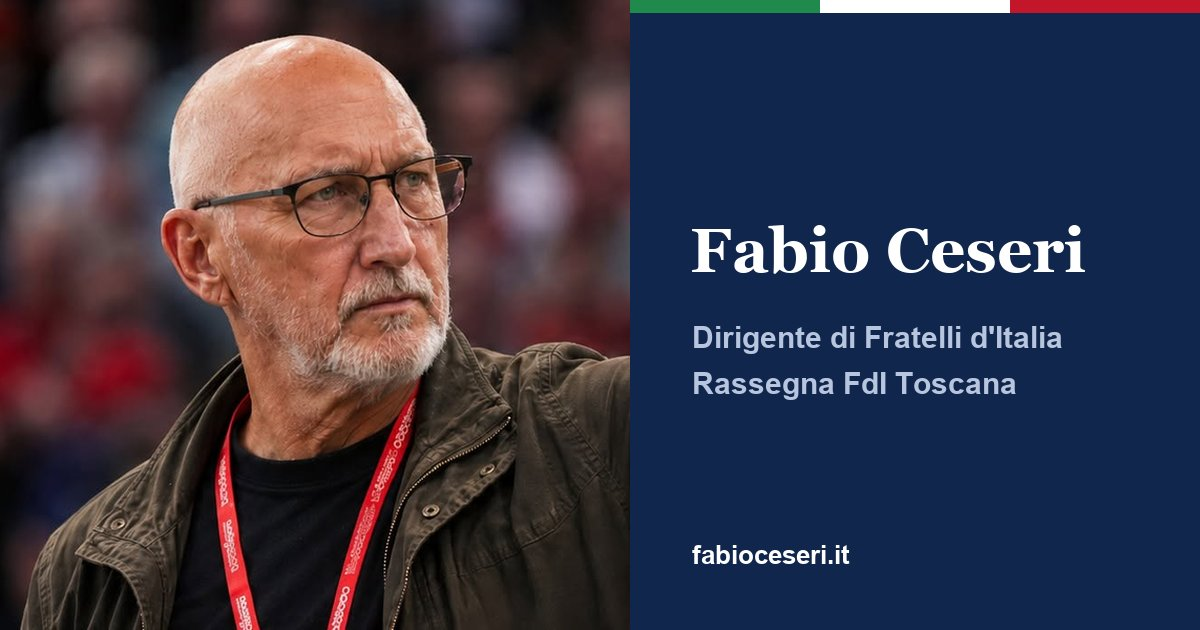
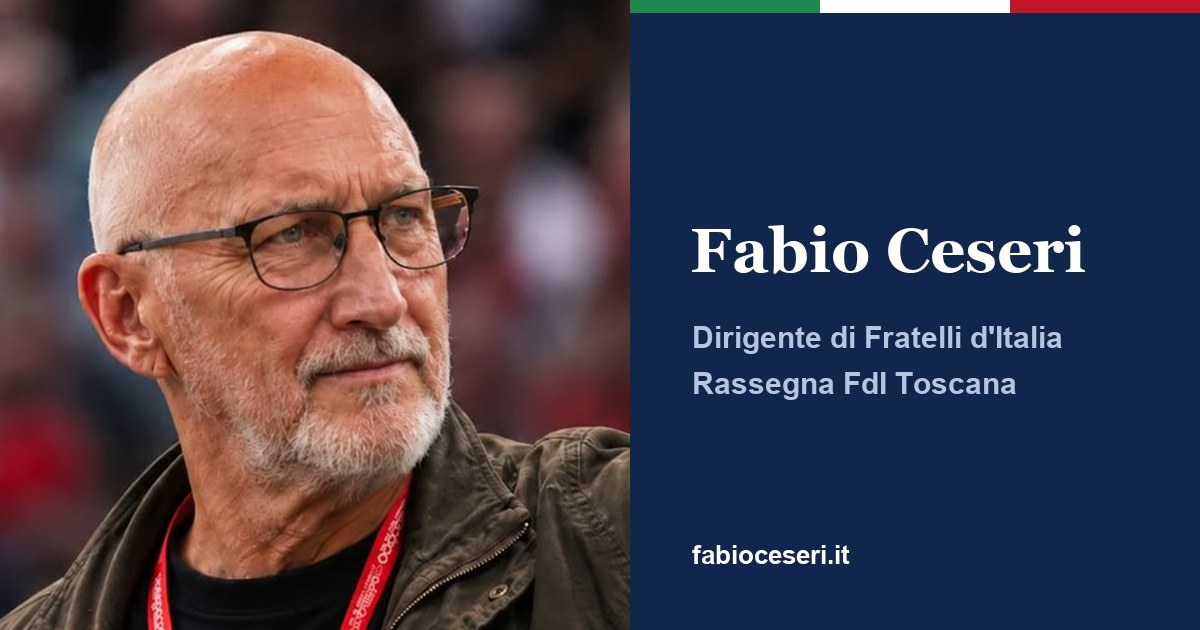
Aggiornamento 20/10/2026 11:32

diff --git a/vite-ritrovate/index.html b/vite-ritrovate/index.html
@@ -1,0 +1,280 @@
+<!doctype html>
+<html lang="it">
+<head>
+<meta charset="utf-8">
+<meta name="viewport" content="width=device-width, initial-scale=1">
+<title>Si dice sia il caso | Fabio Ceseri | Vite ritrovate</title>
+<meta name="description" content="Si dice sia il caso, di Fabio Ceseri: la storia vera di un amico, tra radici spezzate, dipendenze e la possibilità di ricominciare. Primo volume di Vite ritrovate. eBook Kindle su Amazon.">
+<meta name="theme-color" content="#0a1322">
+<meta property="og:type" content="book">
+<meta property="og:title" content="Si dice sia il caso, di Fabio Ceseri">
+<meta property="og:description" content="Una storia vera. La possibilità di ricominciare. Primo volume di Vite ritrovate.">
+<link rel="canonical" href="https://fabioceseri.it/vite-ritrovate/">
+<meta property="og:url" content="https://fabioceseri.it/vite-ritrovate/">
+<meta property="og:image" content="https://fabioceseri.it/vite-ritrovate/img/anteprima.jpg">
+<meta property="og:image:width" content="1200">
+<meta property="og:image:height" content="630">
+<meta property="og:locale" content="it_IT">
+<meta name="twitter:card" content="summary_large_image">
+<link rel="icon" href="img/copertina.jpg">
+<script type="application/ld+json">
+{
+  "@context": "https://schema.org",
+  "@type": "Book",
+  "name": "Si dice sia il caso",
+  "alternativeHeadline": "Non è mai davvero il caso",
+  "author": {"@type": "Person", "name": "Fabio Ceseri", "url": "https://fabioceseri.it/"},
+  "inLanguage": "it",
+  "bookFormat": "https://schema.org/EBook",
+  "isPartOf": {"@type": "BookSeries", "name": "Vite ritrovate"},
+  "image": "https://fabioceseri.it/vite-ritrovate/img/copertina.jpg",
+  "url": "https://fabioceseri.it/vite-ritrovate/"
+}
+</script>
+<style>
+:root{
+  --notte:#0a1322; --notte-2:#101d33; --notte-3:#172a47;
+  --lampione:#e9b45c; --lampione-tenue:rgba(233,180,92,.16);
+  --carta:#f3ead8; --carta-2:#cfc6b4; --rossa:#b4432f;
+  --serif:"Iowan Old Style","Palatino Linotype",Palatino,"Book Antiqua",Georgia,serif;
+  --sans:-apple-system,BlinkMacSystemFont,"Segoe UI",Roboto,"Helvetica Neue",Arial,sans-serif;
+}
+*{box-sizing:border-box}
+html{scroll-behavior:smooth}
+body{margin:0;background:var(--notte);color:var(--carta);font-family:var(--serif);font-size:19px;line-height:1.65;-webkit-font-smoothing:antialiased}
+a{color:var(--lampione)}
+img{max-width:100%;height:auto;display:block}
+.wrap{max-width:1080px;margin:0 auto;padding:0 24px}
+
+/* menu */
+.nav{position:absolute;top:0;left:0;right:0;z-index:5}
+.nav .wrap{display:flex;justify-content:space-between;align-items:center;padding-top:22px}
+.marchio{font-family:var(--sans);font-size:12px;letter-spacing:.32em;text-transform:uppercase;color:var(--carta-2);text-decoration:none}
+.nav ul{list-style:none;display:flex;gap:26px;margin:0;padding:0;font-family:var(--sans);font-size:14px}
+.nav ul a{color:var(--carta-2);text-decoration:none}
+.nav ul a:hover{color:var(--carta)}
+
+/* apertura */
+.hero{position:relative;min-height:100vh;display:flex;align-items:center;overflow:hidden;
+  background:linear-gradient(180deg,rgba(10,19,34,.55),rgba(10,19,34,.35) 40%,var(--notte) 98%),url(img/sfondo.jpg) center/cover no-repeat}
+.pioggia{position:absolute;inset:-50% 0 0;pointer-events:none;opacity:.22;
+  background-image:repeating-linear-gradient(102deg,transparent 0 11px,rgba(220,232,255,.5) 11px 12px,transparent 12px 38px);
+  background-size:100% 240px;animation:cade 1.1s linear infinite;mask-image:linear-gradient(transparent,#000 30%,#000 70%,transparent)}
+@keyframes cade{to{transform:translateY(240px)}}
+@media (prefers-reduced-motion:reduce){.pioggia{animation:none}}
+.hero .wrap{position:relative;display:grid;grid-template-columns:minmax(0,5fr) minmax(0,6fr);gap:64px;align-items:center;padding-top:110px;padding-bottom:80px}
+.copertina{position:relative;justify-self:center;width:min(100%,360px)}
+.copertina::before{content:"";position:absolute;inset:18% -18% 0;background:radial-gradient(closest-side,rgba(233,180,92,.33),transparent);filter:blur(10px);z-index:-1}
+.copertina img{border-radius:3px;box-shadow:0 30px 60px rgba(0,0,0,.55),0 0 0 1px rgba(255,255,255,.06)}
+.collana{display:inline-block;font-family:var(--sans);font-size:12px;letter-spacing:.22em;text-transform:uppercase;color:var(--lampione);border:1px solid rgba(233,180,92,.4);border-radius:999px;padding:6px 14px;margin-bottom:22px}
+.autore{font-size:15px;letter-spacing:.42em;text-transform:uppercase;color:var(--carta-2);margin:0 0 10px}
+h1{font-size:clamp(52px,7.4vw,92px);line-height:1;font-weight:600;margin:0 0 14px;letter-spacing:-.01em;color:#f6eedd}
+.sottotitolo{font-style:italic;font-size:clamp(24px,2.8vw,32px);margin:0 0 26px;color:var(--carta)}
+.filo{width:90px;height:1px;background:var(--lampione);opacity:.8;margin:0 0 26px}
+.frase{font-size:21px;margin:0 0 34px;color:var(--carta)}
+.bottoni{display:flex;flex-wrap:wrap;gap:14px;align-items:center}
+.btn{font-family:var(--sans);font-size:16px;font-weight:600;text-decoration:none;border-radius:999px;padding:14px 24px;display:inline-flex;align-items:center;gap:10px;transition:transform .15s,background .15s}
+.btn:hover{transform:translateY(-1px)}
+.btn-oro{background:var(--lampione);color:#1a1206}
+.btn-oro:hover{background:#f2c372}
+.btn-vuoto{color:var(--carta);border:1px solid rgba(243,234,216,.35)}
+.btn-vuoto:hover{background:rgba(243,234,216,.08)}
+.nota{font-family:var(--sans);font-size:13px;color:var(--carta-2);margin:16px 0 0}
+
+/* sezioni */
+section{padding:96px 0}
+.etichetta{font-family:var(--sans);font-size:12px;letter-spacing:.28em;text-transform:uppercase;color:var(--lampione);margin:0 0 14px}
+h2{font-size:clamp(34px,4.2vw,48px);line-height:1.12;font-weight:600;margin:0 0 28px;color:#f6eedd}
+.testo{max-width:680px}
+.testo p{margin:0 0 1.1em}
+.citazione{font-size:clamp(26px,3.2vw,36px);line-height:1.35;font-style:italic;max-width:820px;margin:0 auto;text-align:center;color:#f6eedd}
+.citazione::before{content:"\201C";display:block;font-size:80px;line-height:.6;color:var(--lampione);margin-bottom:18px;font-style:normal}
+.firma{text-align:center;font-family:var(--sans);font-size:14px;letter-spacing:.2em;text-transform:uppercase;color:var(--carta-2);margin-top:26px}
+.fascia{background:linear-gradient(180deg,var(--notte),var(--notte-2))}
+.fascia-2{background:var(--notte-2)}
+.due{display:grid;grid-template-columns:minmax(0,1fr) minmax(0,1fr);gap:56px;align-items:start}
+.temi{list-style:none;margin:0;padding:0;display:grid;gap:14px}
+.temi li{background:var(--notte-3);border-left:3px solid var(--lampione);border-radius:4px;padding:16px 20px}
+.temi b{display:block;font-size:20px;color:#f6eedd}
+.temi span{font-family:var(--sans);font-size:15px;color:var(--carta-2)}
+
+/* progetto */
+.schede{display:grid;grid-template-columns:repeat(3,minmax(0,1fr));gap:22px;margin-top:44px}
+.scheda{background:rgba(255,255,255,.03);border:1px solid rgba(243,234,216,.1);border-radius:10px;padding:28px}
+.scheda .num{font-family:var(--sans);font-size:13px;color:var(--lampione);letter-spacing:.2em}
+.scheda h3{font-size:25px;margin:8px 0 10px;font-weight:600;color:#f6eedd}
+.scheda p{font-family:var(--sans);font-size:16px;line-height:1.6;color:var(--carta-2);margin:0}
+.storia{margin-top:56px;display:flex;flex-wrap:wrap;gap:24px 40px;align-items:center;justify-content:space-between;border-radius:12px;padding:36px 40px;
+  background:radial-gradient(120% 140% at 0% 0%,rgba(233,180,92,.18),transparent 60%),var(--notte-3)}
+.storia h3{font-size:28px;margin:0 0 6px;font-weight:600}
+.storia p{margin:0;font-family:var(--sans);font-size:16px;color:var(--carta-2);max-width:560px}
+
+/* aiuto */
+.aiuto{border:1px solid rgba(233,180,92,.35);border-radius:12px;padding:40px;background:rgba(233,180,92,.05)}
+.aiuto h2{font-size:clamp(28px,3.4vw,38px)}
+.numeri{display:grid;grid-template-columns:repeat(2,minmax(0,1fr));gap:18px;margin-top:8px}
+.numero{background:var(--notte);border-radius:8px;padding:20px 22px}
+.numero a{font-family:var(--sans);font-size:24px;font-weight:700;text-decoration:none;color:var(--lampione);white-space:nowrap}
+.numero b{display:block;font-size:19px;margin-bottom:4px}
+.numero span{display:block;font-family:var(--sans);font-size:14px;color:var(--carta-2);margin-top:6px}
+.piccolo{font-family:var(--sans);font-size:13px;color:var(--carta-2);margin:20px 0 0}
+
+/* autore */
+.autore-box{display:flex;gap:28px;align-items:center}
+.ritratto{flex:none;width:150px;height:150px;border-radius:50%;object-fit:cover;border:2px solid rgba(233,180,92,.6);box-shadow:0 0 0 6px rgba(233,180,92,.08),0 18px 40px rgba(0,0,0,.45)}
+
+footer{padding:40px 0 56px;border-top:1px solid rgba(243,234,216,.08);font-family:var(--sans);font-size:14px;color:var(--carta-2)}
+footer .wrap{display:flex;flex-wrap:wrap;gap:12px 28px;justify-content:space-between}
+footer a{color:var(--carta-2)}
+
+@media (max-width:860px){
+  body{font-size:18px}
+  .nav ul{display:none}
+  .hero .wrap{grid-template-columns:1fr;gap:40px;padding-top:84px;text-align:center}
+  .copertina{width:min(58%,220px)}
+  .filo{margin-left:auto;margin-right:auto}
+  .bottoni{justify-content:center}
+  .due,.schede,.numeri{grid-template-columns:1fr}
+  section{padding:72px 0}
+  .storia,.aiuto{padding:28px 22px}
+  .autore-box{flex-direction:column;text-align:center}
+}
+@media (max-width:480px){.wrap{padding:0 16px}.btn{width:100%;justify-content:center}}
+</style>
+</head>
+<body>
+
+<nav class="nav"><div class="wrap">
+  <a class="marchio" href="https://fabioceseri.it/">← Fabio Ceseri</a>
+  <ul>
+    <li><a href="#libro">Il libro</a></li>
+    <li><a href="#progetto">Il progetto</a></li>
+    <li><a href="#aiuto">Chiedere aiuto</a></li>
+    <li><a href="#scrivimi">Scrivimi</a></li>
+  </ul>
+</div></nav>
+
+<header class="hero">
+  <div class="pioggia" aria-hidden="true"></div>
+  <div class="wrap">
+    <div class="copertina"><img src="img/copertina.jpg" width="535" height="868" alt="Copertina di Si dice sia il caso: una cabina telefonica rossa illuminata sotto la pioggia, di notte"></div>
+    <div>
+      <span class="collana">Vite ritrovate · Volume 1</span>
+      <p class="autore">Fabio Ceseri</p>
+      <h1>Si dice sia il caso</h1>
+      <p class="sottotitolo">Non è mai davvero il caso</p>
+      <div class="filo"></div>
+      <p class="frase">Una storia vera.<br>La possibilità di ricominciare.</p>
+      <div class="bottoni">
+        <!-- LINK AMAZON: sostituire con il link diretto al libro appena Fabio lo manda -->
+        <a class="btn btn-oro" href="https://www.amazon.it/s?k=Si+dice+sia+il+caso+Fabio+Ceseri&amp;i=digital-text" target="_blank" rel="noopener">Leggilo su Amazon</a>
+        <a class="btn btn-vuoto" href="#progetto">Il progetto</a>
+      </div>
+      <p class="nota">eBook Kindle · disponibile anche con Kindle Unlimited</p>
+    </div>
+  </div>
+</header>
+
+<section class="fascia">
+  <div class="wrap">
+    <p class="citazione">Ci sono persone che continuano a far parte della nostra vita anche quando non ci sono più. Scrivere di loro è un modo per custodire ciò che ci hanno lasciato e condividerlo con qualcuno.</p>
+    <p class="firma">Fabio Ceseri</p>
+  </div>
+</section>
+
+<section id="libro" class="fascia-2">
+  <div class="wrap due">
+    <div class="testo">
+      <p class="etichetta">Il libro</p>
+      <h2>La storia vera di un amico</h2>
+      <p><em>Si dice sia il caso</em> nasce dalla storia vera di un amico che ho conosciuto e amato. Racconta radici spezzate, dipendenze difficili da affrontare e la possibilità di ritrovare una direzione quando sembra di averla perduta.</p>
+      <p>Ho voluto dare spazio alla sua testimonianza, alla fatica e alla speranza di una rinascita. È da questa esperienza che prende forma il primo volume di <em>Vite ritrovate</em>.</p>
+      <p>Il libro è disponibile su Amazon in formato eBook Kindle, anche per gli abbonati a Kindle Unlimited.</p>
+    </div>
+    <ul class="temi" aria-label="I temi del libro">
+      <li><b>Radici spezzate</b><span>Una famiglia divisa, un'infanzia che lascia il segno.</span></li>
+      <li><b>Dipendenze</b><span>La fatica di guardarle in faccia, e di non restarne prigionieri.</span></li>
+      <li><b>Una direzione ritrovata</b><span>Quando sembra tutto perduto, la possibilità di ricominciare.</span></li>
+    </ul>
+  </div>
+</section>
+
+<section class="fascia">
+  <div class="wrap">
+    <p class="etichetta" style="text-align:center">Non è mai davvero il caso</p>
+    <p class="citazione">C'è qualcuno al di sopra di noi che ci ama e ha dato la vita per noi.</p>
+    <p class="firma">Fabio Ceseri</p>
+  </div>
+</section>
+
+<section id="progetto" class="fascia-2">
+  <div class="wrap">
+    <div class="testo">
+      <p class="etichetta">Il progetto</p>
+      <h2>Vite ritrovate</h2>
+      <p>Una collana di storie vere: persone che sono cadute e si sono rialzate. Chi sta attraversando lo stesso buio spesso pensa di essere solo. Leggere che qualcuno ce l'ha fatta può essere il primo passo per chiedere aiuto.</p>
+    </div>
+    <div class="schede">
+      <div class="scheda"><span class="num">01</span><h3>Custodire</h3><p>Raccogliere le storie di chi ha ritrovato la propria strada, con rispetto e solo con il pieno consenso di chi le ha vissute.</p></div>
+      <div class="scheda"><span class="num">02</span><h3>Accompagnare</h3><p>Ogni storia porta con sé un'indicazione concreta: dove chiedere aiuto, subito e gratuitamente.</p></div>
+      <div class="scheda"><span class="num">03</span><h3>Incontrarsi</h3><p>Presentazioni in biblioteche, parrocchie e scuole, insieme a chi ogni giorno aiuta le persone a uscire dalle dipendenze.</p></div>
+    </div>
+    <div class="storia">
+      <div>
+        <h3>Hai una storia da raccontare?</h3>
+        <p>La tua, o quella di una persona cara. Scrivimi: la leggerò con attenzione e in riservatezza. Nessuna storia sarà pubblicata senza il tuo consenso.</p>
+      </div>
+      <a class="btn btn-oro" href="mailto:ceseri@gmail.com?subject=Vite%20ritrovate%3A%20una%20storia">Racconta la tua storia</a>
+    </div>
+  </div>
+</section>
+
+<section id="aiuto">
+  <div class="wrap">
+    <div class="aiuto">
+      <p class="etichetta">Se stai attraversando un momento difficile</p>
+      <h2>Non sei solo. Chiedere aiuto si può.</h2>
+      <div class="numeri">
+        <div class="numero"><b>Emergenza</b><a href="tel:112">112</a><span>Numero unico di emergenza, sempre attivo.</span></div>
+        <div class="numero"><b>Telefono Amico Italia</b><a href="tel:+390223272327">02 2327 2327</a><span>Ascolto per chi si sente solo o in difficoltà. Anche su WhatsApp.</span></div>
+        <div class="numero"><b>Telefono Verde gioco d'azzardo</b><a href="tel:800558822">800 558 822</a><span>Istituto Superiore di Sanità. Gratuito e anonimo, dal lunedì al venerdì.</span></div>
+        <div class="numero"><b>Servizi per le Dipendenze</b><span style="margin-top:0">Ogni ASL ha un Ser.D: si accede direttamente, gratis, senza impegnativa del medico. Chiedi alla tua ASL o al tuo medico di famiglia.</span></div>
+      </div>
+      <p class="piccolo">Gli orari possono cambiare: controllali sui siti ufficiali dei servizi.</p>
+    </div>
+  </div>
+</section>
+
+<section id="scrivimi" class="fascia-2">
+  <div class="wrap">
+    <div class="testo" style="max-width:760px">
+      <p class="etichetta">Dopo la lettura</p>
+      <h2>Che cosa ti ha lasciato?</h2>
+      <p>Se vorrete leggerlo, mi farà piacere sapere che cosa vi avrà lasciato.</p>
+      <div class="bottoni" style="margin-top:28px">
+        <a class="btn btn-oro" href="mailto:ceseri@gmail.com?subject=Si%20dice%20sia%20il%20caso">Scrivimi</a>
+        <a class="btn btn-vuoto" href="https://www.amazon.it/s?k=Si+dice+sia+il+caso+Fabio+Ceseri&amp;i=digital-text" target="_blank" rel="noopener">Lascia una recensione su Amazon</a>
+      </div>
+    </div>
+  </div>
+</section>
+
+<section>
+  <div class="wrap">
+    <div class="autore-box">
+      <img class="ritratto" src="img/fabio.jpg" width="480" height="480" alt="Fabio Ceseri">
+      <div class="testo">
+        <p class="etichetta">L'autore</p>
+        <p style="margin:0">Fabio Ceseri è nato a Borgo San Lorenzo, nel Mugello. <em>Si dice sia il caso</em> è il primo volume di <em>Vite ritrovate</em>. <a href="https://fabioceseri.it/">fabioceseri.it</a></p>
+      </div>
+    </div>
+  </div>
+</section>
+
+<footer><div class="wrap">
+  <span>© 2026 Fabio Ceseri · Vite ritrovate</span>
+  <span>Questo sito non usa cookie. <a href="mailto:ceseri@gmail.com">ceseri@gmail.com</a></span>
+</div></footer>
+
+</body>
+</html>

diff --git a/index.html b/index.html
@@ -54,7 +54,7 @@
 </section>
 <section class="blocco">
   <h2>Scrivo</h2>
-  <div><ul class="elenco"><li><a href="https://artigianodelweb.substack.com/"><span class="titolo">Mugello, fuori campo</span><span class="dove">Substack <svg viewBox="0 0 24 24" fill="none" stroke="currentColor" stroke-width="2" stroke-linecap="round" stroke-linejoin="round" aria-hidden="true"><path d="M7 17 17 7M8 7h9v9"/></svg></span><span class="desc">Il mio Substack.</span></a></li></ul></div>
+  <div><ul class="elenco"><li><a href="vite-ritrovate/"><span class="titolo">Si dice sia il caso</span><span class="dove">Vite ritrovate <svg viewBox="0 0 24 24" fill="none" stroke="currentColor" stroke-width="2" stroke-linecap="round" stroke-linejoin="round" aria-hidden="true"><path d="M7 17 17 7M8 7h9v9"/></svg></span><span class="desc">Il mio libro: la storia vera di un amico, tra radici spezzate, dipendenze e la possibilità di ricominciare. Primo volume di Vite ritrovate.</span></a></li><li><a href="https://artigianodelweb.substack.com/"><span class="titolo">Mugello, fuori campo</span><span class="dove">Substack <svg viewBox="0 0 24 24" fill="none" stroke="currentColor" stroke-width="2" stroke-linecap="round" stroke-linejoin="round" aria-hidden="true"><path d="M7 17 17 7M8 7h9v9"/></svg></span><span class="desc">Il mio Substack.</span></a></li></ul></div>
 </section>
 <section class="blocco">
   <h2>Contatti</h2>
